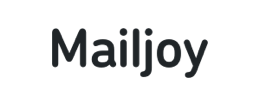
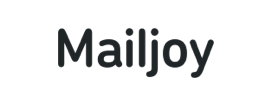
Fixed images and implemented GA

Changed region(s): [[0.1778, 0.27, 0.8, 0.78]]

diff --git a/index.html b/index.html
@@ -9,7 +9,7 @@
 
     <!-- Bootstrap -->
     <link href="css/bootstrap.min.css" rel="stylesheet">
-	<link rel="stylesheet" type="text/css" href="font/fonts.css" />
+		<link rel="stylesheet" type="text/css" href="font/fonts.css" />
 
     <style>
     	body {
@@ -71,6 +71,17 @@
 	    	}
 	    }
     </style>
+
+    <!-- Google Analytics -->
+    <script>
+	  (function(i,s,o,g,r,a,m){i['GoogleAnalyticsObject']=r;i[r]=i[r]||function(){
+	  (i[r].q=i[r].q||[]).push(arguments)},i[r].l=1*new Date();a=s.createElement(o),
+	  m=s.getElementsByTagName(o)[0];a.async=1;a.src=g;m.parentNode.insertBefore(a,m)
+	  })(window,document,'script','https://www.google-analytics.com/analytics.js','ga');
+
+	  ga('create', 'UA-43020813-2', 'auto');
+	  ga('send', 'pageview');
+		</script>
 
   </head>
   <body>
